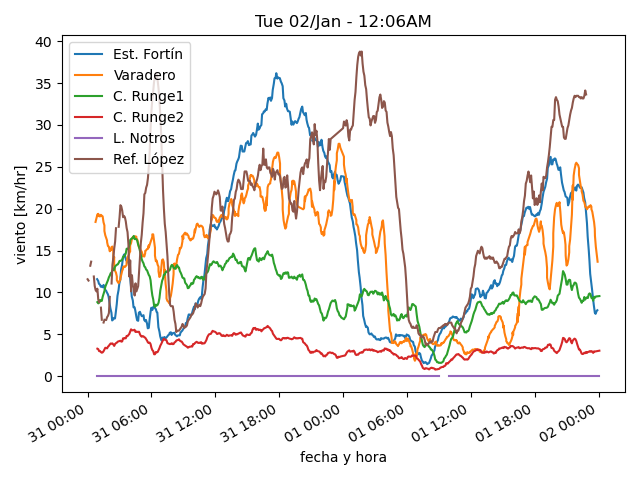
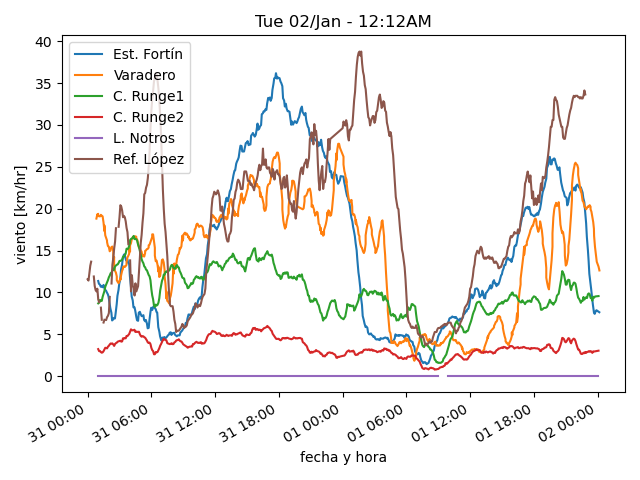
actualiza datos

diff --git a/estaciones/estacion1.html b/estaciones/estacion1.html
@@ -13,27 +13,27 @@
     </tr>
     <tr>
      <td class="stats_data">
-      Mon 01/Jan
+      Tue 02/Jan
      </td>
     </tr>
     <tr>
      <td class="stats_data">
-      11:53PM
+      12:09AM
      </td>
     </tr>
     <tr>
      <td class="stats_data">
-      16.8
+      16.5
      </td>
     </tr>
     <tr>
      <td class="stats_data">
-      9.0
+      8.9
      </td>
     </tr>
     <tr>
      <td class="stats_data">
-      60.0
+      60.7
      </td>
     </tr>
     <tr>
@@ -43,7 +43,7 @@
     </tr>
     <tr>
      <td class="stats_data">
-      3.2/6.4 WSW
+      1.6/6.4 SW
      </td>
     </tr>
     <tr>

diff --git a/estaciones/estacion2.html b/estaciones/estacion2.html
@@ -13,12 +13,12 @@
     </tr>
     <tr>
      <td class="stats_data">
-      Mon 01/Jan
+      Tue 02/Jan
      </td>
     </tr>
     <tr>
      <td class="stats_data">
-      11:54PM
+      12:09AM
      </td>
     </tr>
     <tr>
@@ -33,17 +33,17 @@
     </tr>
     <tr>
      <td class="stats_data">
-      63.7
+      63.6
      </td>
     </tr>
     <tr>
      <td class="stats_data">
-      1014.63
+      1014.73
      </td>
     </tr>
     <tr>
      <td class="stats_data">
-      6.2/10.3 WNW
+      8.7/12.5 WNW
      </td>
     </tr>
     <tr>
